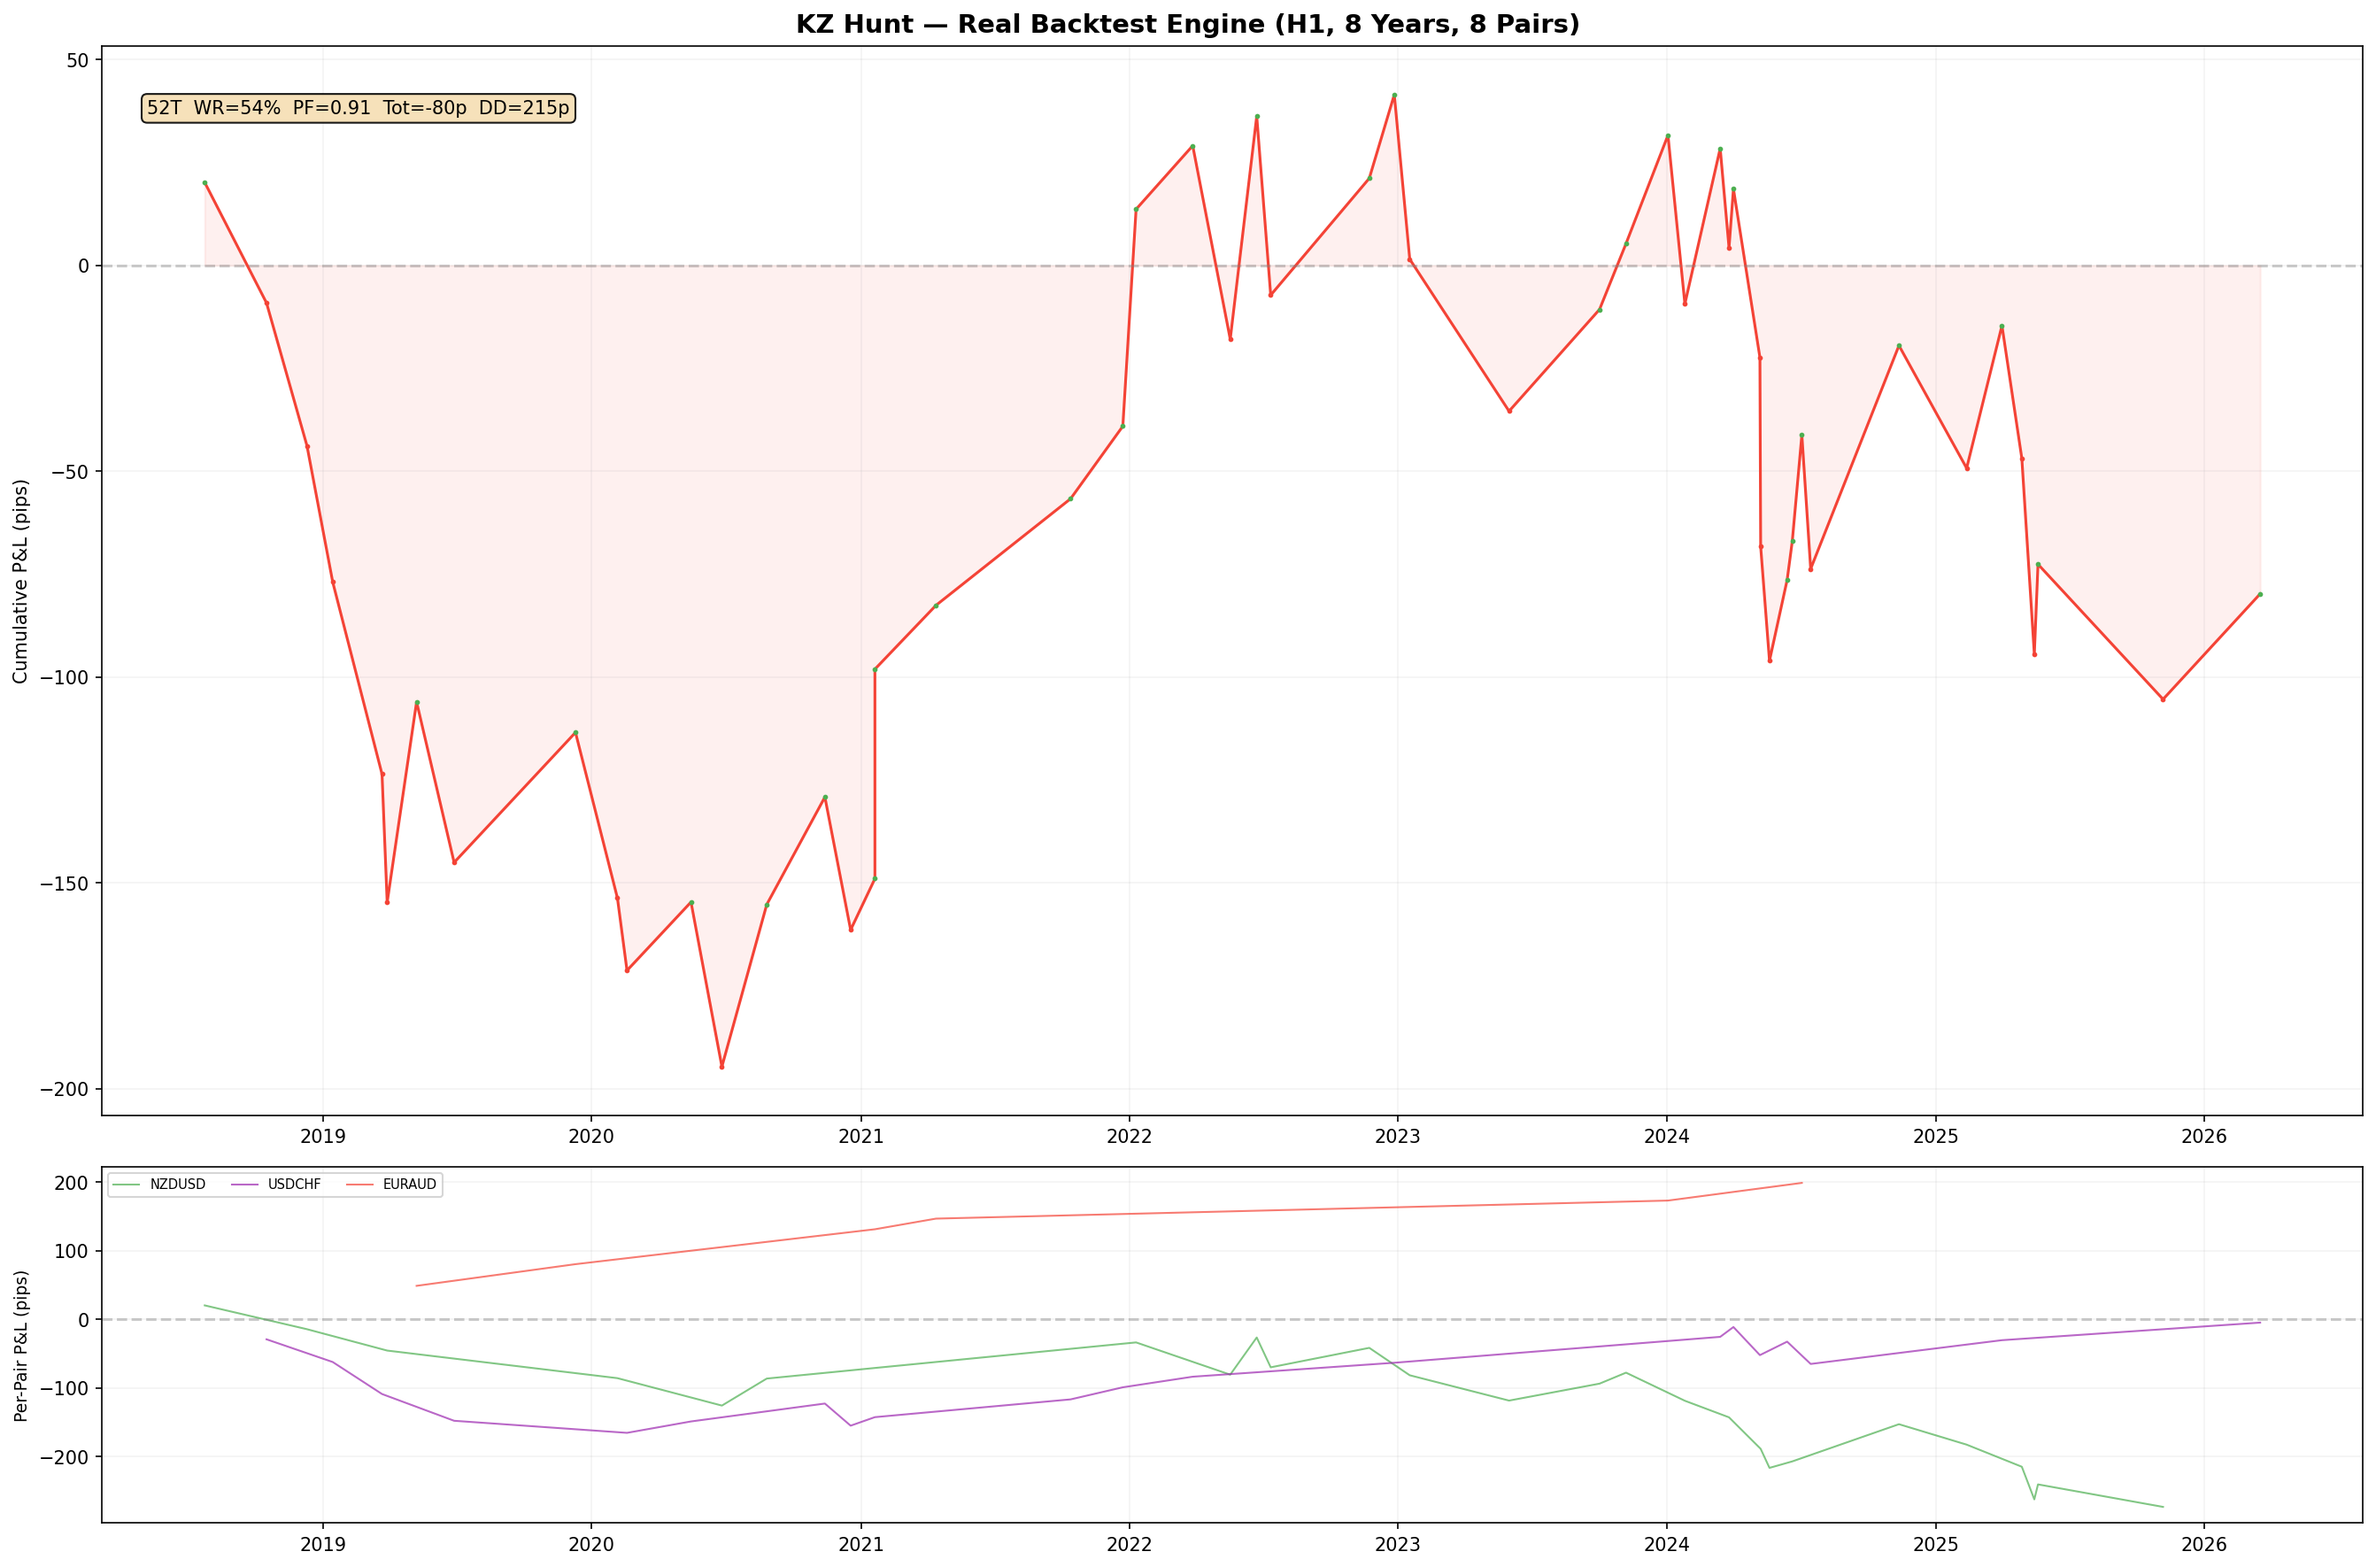
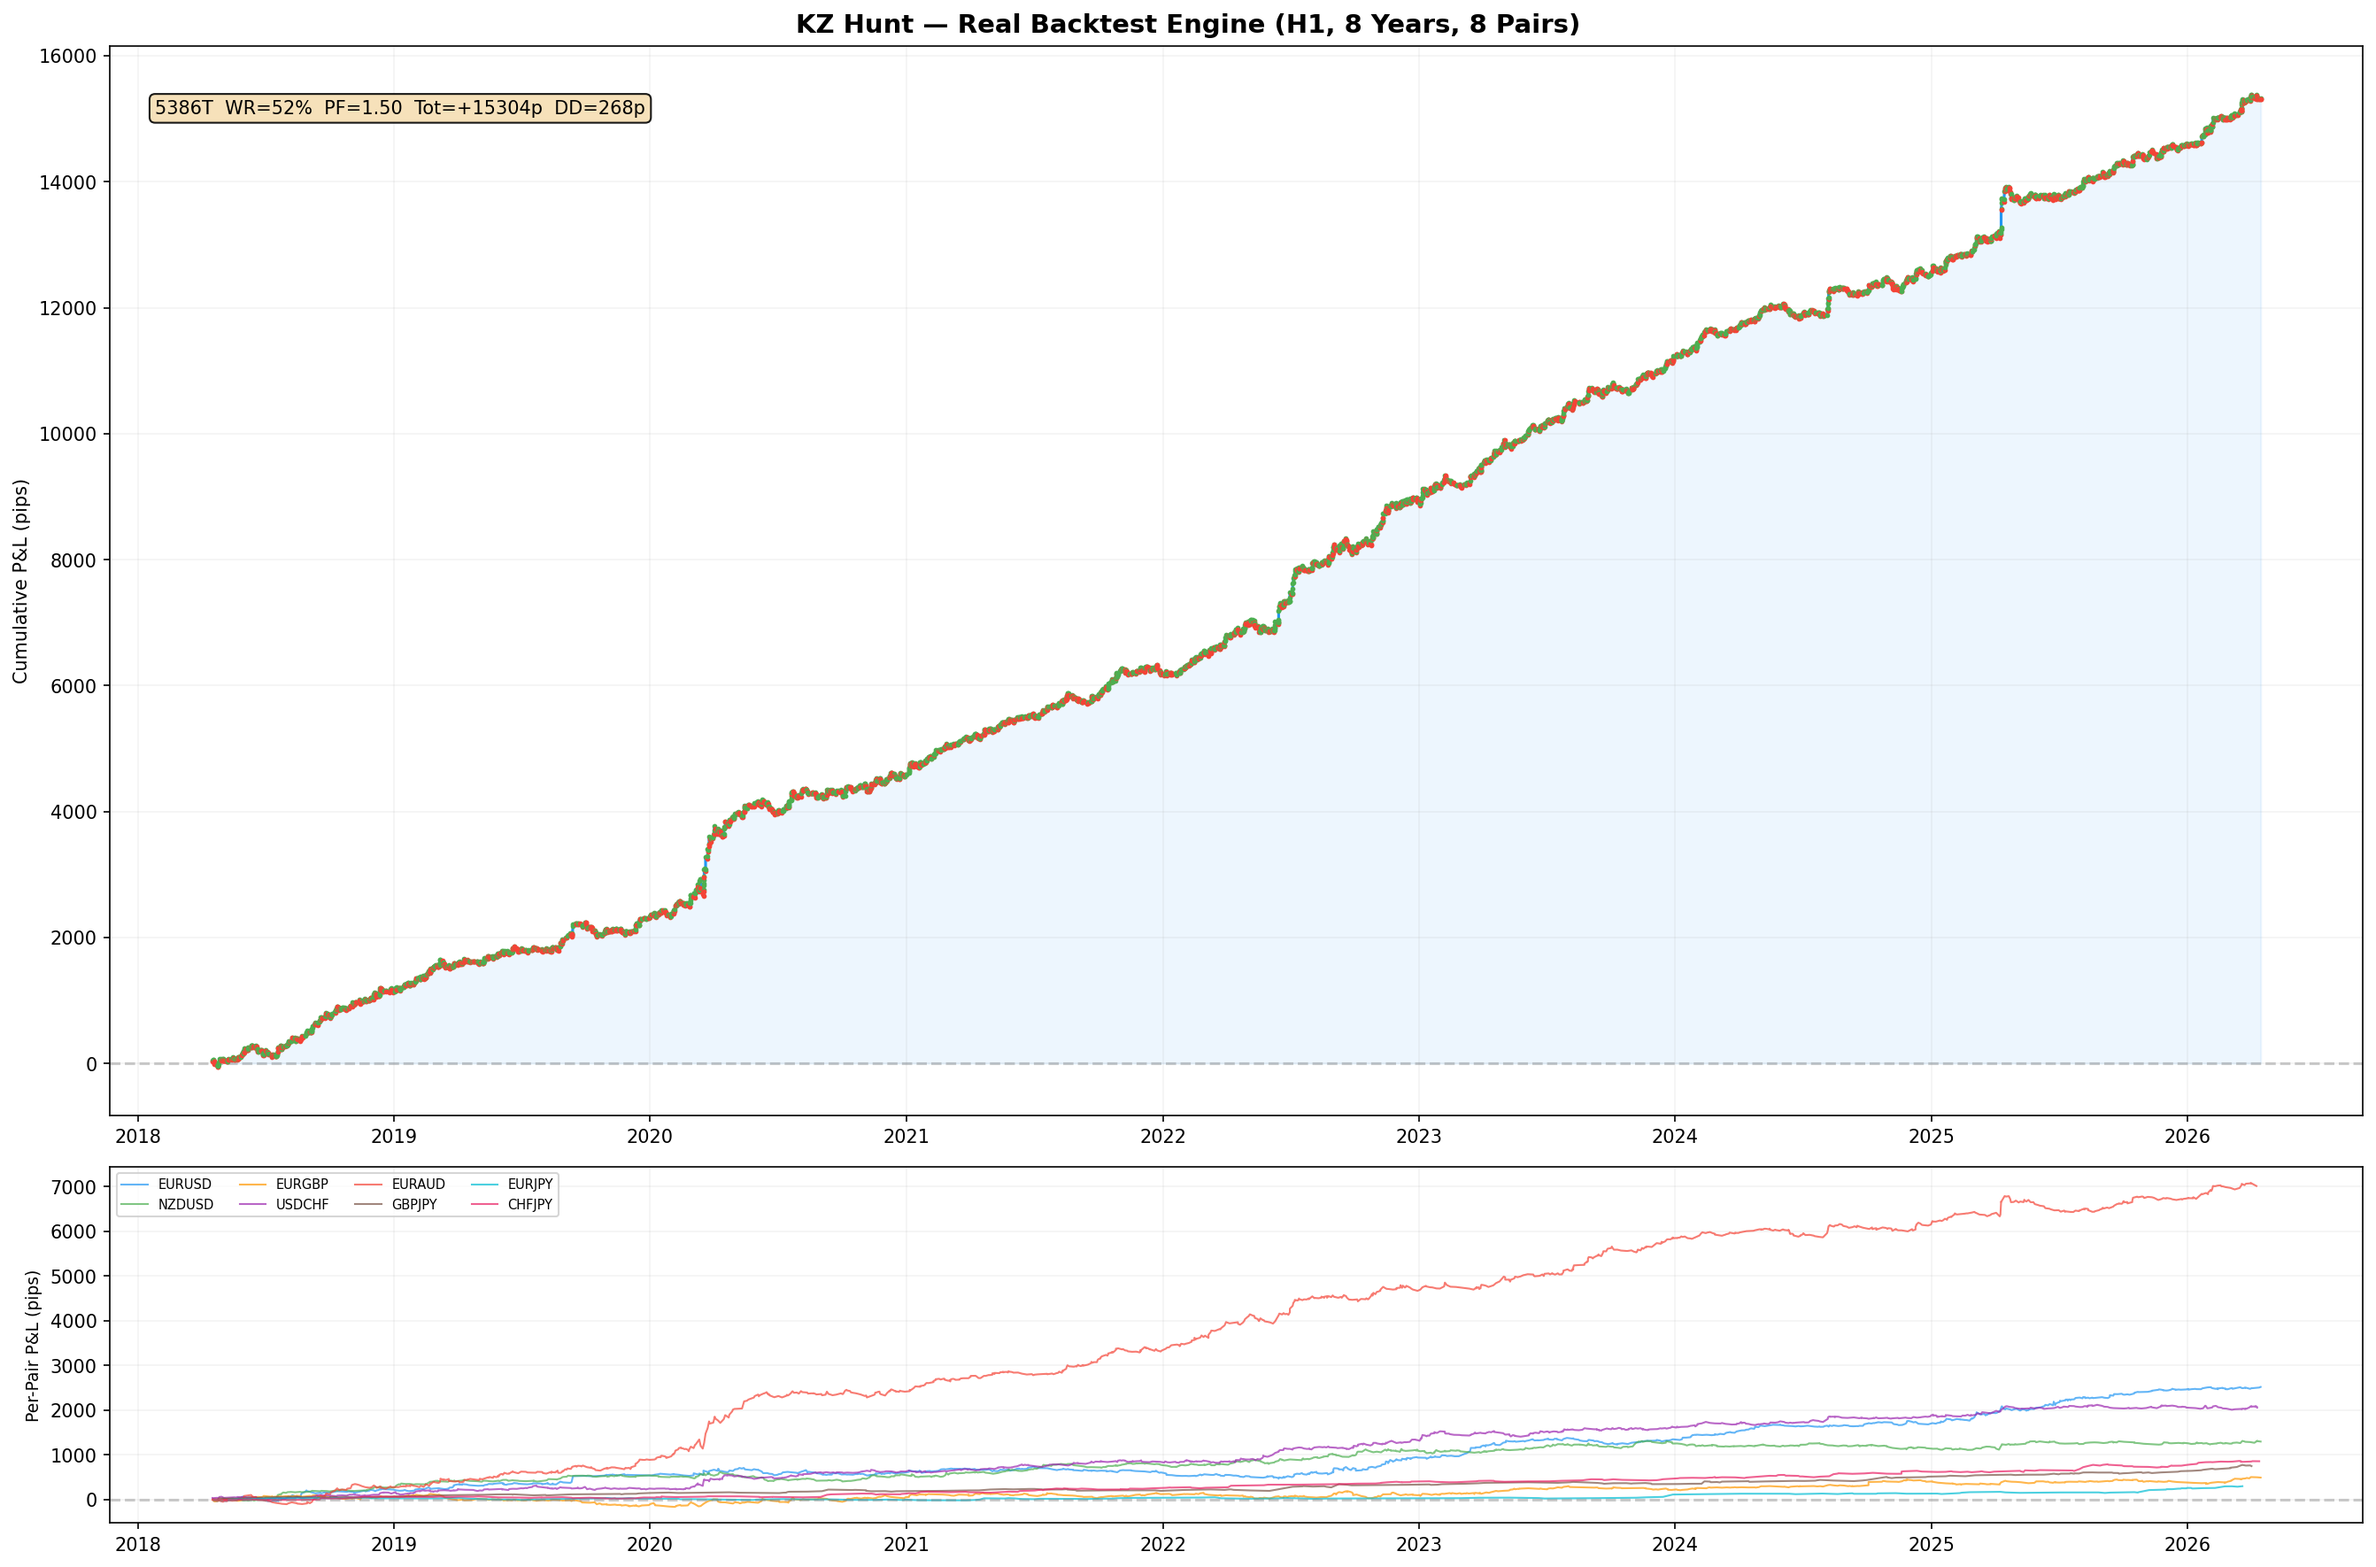
Extend windowed news filter to Quantum London + fix local KZ Hunt backtest
QL (asian_gravity_scanner.py): replaced has_high_impact_same_day with
has_high_impact_in_window keyed to the actual trading window
(next-day 00:00-05:00 UTC). Events landing after 05:00 UTC (e.g. European
morning PMIs at 07:30-08:30) no longer block the overnight mean-reversion
session.

Local KZ Hunt backtest (scripts/kz_hunt_proper_backtest.py): fixes that
had it producing ~0 trades on 5 of 8 pairs:
- Use add_indicators() from data_fetcher (adds ADX alongside ATR/EMA200)
- Pass enabled_patterns=["KZ_HUNT"] and simulate_news_blocks + circuit_breaker
  to BacktestEngine (default was ["HVF"])
- Keep integer-indexed dataframe (the detector assumes int indexing)
- Save per-pair equity curve charts alongside the combined chart

Full 8-year backtest result (all 8 live pairs):
5,386 trades, 52% WR, PF 1.50, +15,304 pips, DD 268p, every year positive.
Matches prior walk-forward PF 1.53 — strategy edge is intact.

diff --git a/scripts/kz_hunt_proper_backtest.py b/scripts/kz_hunt_proper_backtest.py
@@ -9,6 +9,7 @@ sys.path.insert(0, os.path.dirname(os.path.dirname(os.path.abspath(__file__))))
 
 from hvf_trader.backtesting.backtest_engine import BacktestEngine
 from hvf_trader import config
+from hvf_trader.data.data_fetcher import add_indicators
 
 DATA_DIR = os.path.join(os.path.dirname(os.path.dirname(os.path.abspath(__file__))), "backtests", "data")
 CHART_DIR = os.path.join(os.path.dirname(os.path.dirname(os.path.abspath(__file__))), "backtests", "charts")
@@ -21,21 +22,21 @@ def load_h1(symbol):
         return None
     df = pd.read_csv(path)
     df["time"] = pd.to_datetime(df["time"], unit="s", utc=True)
-    # Keep time as column (backtest engine expects it) AND as index
-    df.index = df["time"]
-    # Add indicators that fetch_and_prepare normally adds
-    df["tr"] = np.maximum(df["high"] - df["low"],
-                          np.maximum(abs(df["high"] - df["close"].shift(1)),
-                                     abs(df["low"] - df["close"].shift(1))))
-    df["atr"] = df["tr"].ewm(span=14, adjust=False).mean()
-    df["ema_200"] = df["close"].ewm(span=200, adjust=False).mean()
-    # Volume
+    # Engine expects integer-indexed df with 'time' as a column.
+    df = add_indicators(df)
     if "tick_volume" in df.columns:
         df["volume"] = df["tick_volume"]
+    df = df.dropna(subset=["atr", "ema_200", "adx"]).reset_index(drop=True)
     return df
 
-engine = BacktestEngine()
+engine = BacktestEngine(
+    starting_equity=10000.0,
+    enabled_patterns=["KZ_HUNT"],
+    simulate_news_blocks=True,
+    simulate_circuit_breaker=True,
+)
 all_trades = []
+per_pair_trades = {}  # sym -> [(date, pnl_pips, exit_reason)]
 
 print("KZ Hunt Proper Backtest (Real Engine)")
 print("=" * 70)
@@ -47,7 +48,7 @@ for symbol in INSTRUMENTS:
         print("    No data")
         continue
 
-    print("    {} bars, {} to {}".format(len(df), df.index[0].date(), df.index[-1].date()))
+    print("    {} bars, {} to {}".format(len(df), df["time"].iloc[0].date(), df["time"].iloc[-1].date()))
 
     try:
         result = engine.run(df, symbol)
@@ -58,14 +59,48 @@ for symbol in INSTRUMENTS:
 
         print("    {} trades, WR={:.0f}%, PnL={:+.0f}p".format(len(trades), wr, total_pips))
 
+        pair_list = []
         for t in trades:
-            entry_date = t.entry_time.date() if t.entry_time else df.index[0].date()
-            all_trades.append({
-                "d": entry_date,
-                "pnl": t.pnl_pips,
-                "x": t.exit_reason,
-                "sym": symbol,
-            })
+            entry_date = t.entry_time.date() if t.entry_time else df["time"].iloc[0].date()
+            rec = {"d": entry_date, "pnl": t.pnl_pips, "x": t.exit_reason, "sym": symbol}
+            all_trades.append(rec)
+            pair_list.append(rec)
+        per_pair_trades[symbol] = pair_list
+
+        # Per-pair equity curve chart (saved as soon as pair completes)
+        if pair_list:
+            import matplotlib
+            matplotlib.use("Agg")
+            import matplotlib.pyplot as plt
+            pair_list_sorted = sorted(pair_list, key=lambda x: x["d"])
+            dates = [r["d"] for r in pair_list_sorted]
+            eq_curve = np.cumsum([r["pnl"] for r in pair_list_sorted])
+            wins = sum(1 for r in pair_list if r["pnl"] > 0)
+            gp = sum(r["pnl"] for r in pair_list if r["pnl"] > 0)
+            gl = abs(sum(r["pnl"] for r in pair_list if r["pnl"] <= 0)) or 0.001
+            pair_wr = wins / len(pair_list) * 100
+            pair_pf = gp / gl
+            dd = max(np.maximum.accumulate(eq_curve) - eq_curve) if len(eq_curve) > 1 else 0
+            fig, ax = plt.subplots(figsize=(12, 6))
+            ax.plot(dates, eq_curve, color="tab:blue", linewidth=1.4)
+            ax.fill_between(dates, eq_curve, 0, where=eq_curve >= 0, color="tab:green", alpha=0.15)
+            ax.fill_between(dates, eq_curve, 0, where=eq_curve < 0, color="tab:red", alpha=0.15)
+            ax.axhline(0, color="k", linewidth=0.5)
+            ax.set_title(
+                "KZ Hunt — {} ({}-{} H1)  |  n={}  WR={:.0f}%  PF={:.2f}  Tot={:+.0f}p  DD={:.0f}p".format(
+                    symbol,
+                    df["time"].iloc[0].year, df["time"].iloc[-1].year,
+                    len(pair_list), pair_wr, pair_pf, sum(r["pnl"] for r in pair_list), dd,
+                ),
+                fontsize=11,
+            )
+            ax.set_ylabel("Cumulative pips")
+            ax.grid(alpha=0.3)
+            fig.tight_layout()
+            chart_path = os.path.join(CHART_DIR, "kz_hunt_bt_{}.png".format(symbol))
+            fig.savefig(chart_path, dpi=110)
+            plt.close(fig)
+            print("    Chart: {}".format(chart_path))
     except Exception as e:
         import traceback
         print("    Error: {}".format(e))

diff --git a/hvf_trader/asian_gravity_scanner.py b/hvf_trader/asian_gravity_scanner.py
@@ -105,15 +105,29 @@ class AsianGravityScanner:
                             f"Trading window: {trading_start:02d}:00-{forced_exit:02d}:00 UTC"
                         )
 
-                    # News filter
-                    from hvf_trader.data.news_filter import has_high_impact_same_day
-                    if has_high_impact_same_day(sym):
+                    # Windowed news filter: only block if a high-impact event
+                    # for the symbol's currencies lands during the actual
+                    # trading window (next day 00:00-05:00 UTC). Events outside
+                    # that window (e.g. 07:30+ UTC morning PMIs) don't affect
+                    # the overnight mean-reversion setup.
+                    from datetime import timedelta as _td
+                    from hvf_trader.data.news_filter import has_high_impact_in_window
+                    next_day = (now + _td(days=1)).replace(
+                        hour=0, minute=0, second=0, microsecond=0
+                    )
+                    window_start = next_day.replace(hour=trading_start)
+                    window_end = next_day.replace(hour=forced_exit)
+                    if has_high_impact_in_window(sym, window_start, window_end):
                         self._tracker.state = "DONE"
-                        logger.info("[%s] Session skipped: high-impact event today", pt)
+                        logger.info(
+                            "[%s] Session skipped: high-impact event in trading window",
+                            pt,
+                        )
                         if self._alerter:
                             self._alerter.send_message(
                                 f"<b>[{pt}] Session skipped</b>\n"
-                                f"High-impact event scheduled today"
+                                f"High-impact event in trading window "
+                                f"({trading_start:02d}:00-{forced_exit:02d}:00 UTC)"
                             )
                         return
                 return
